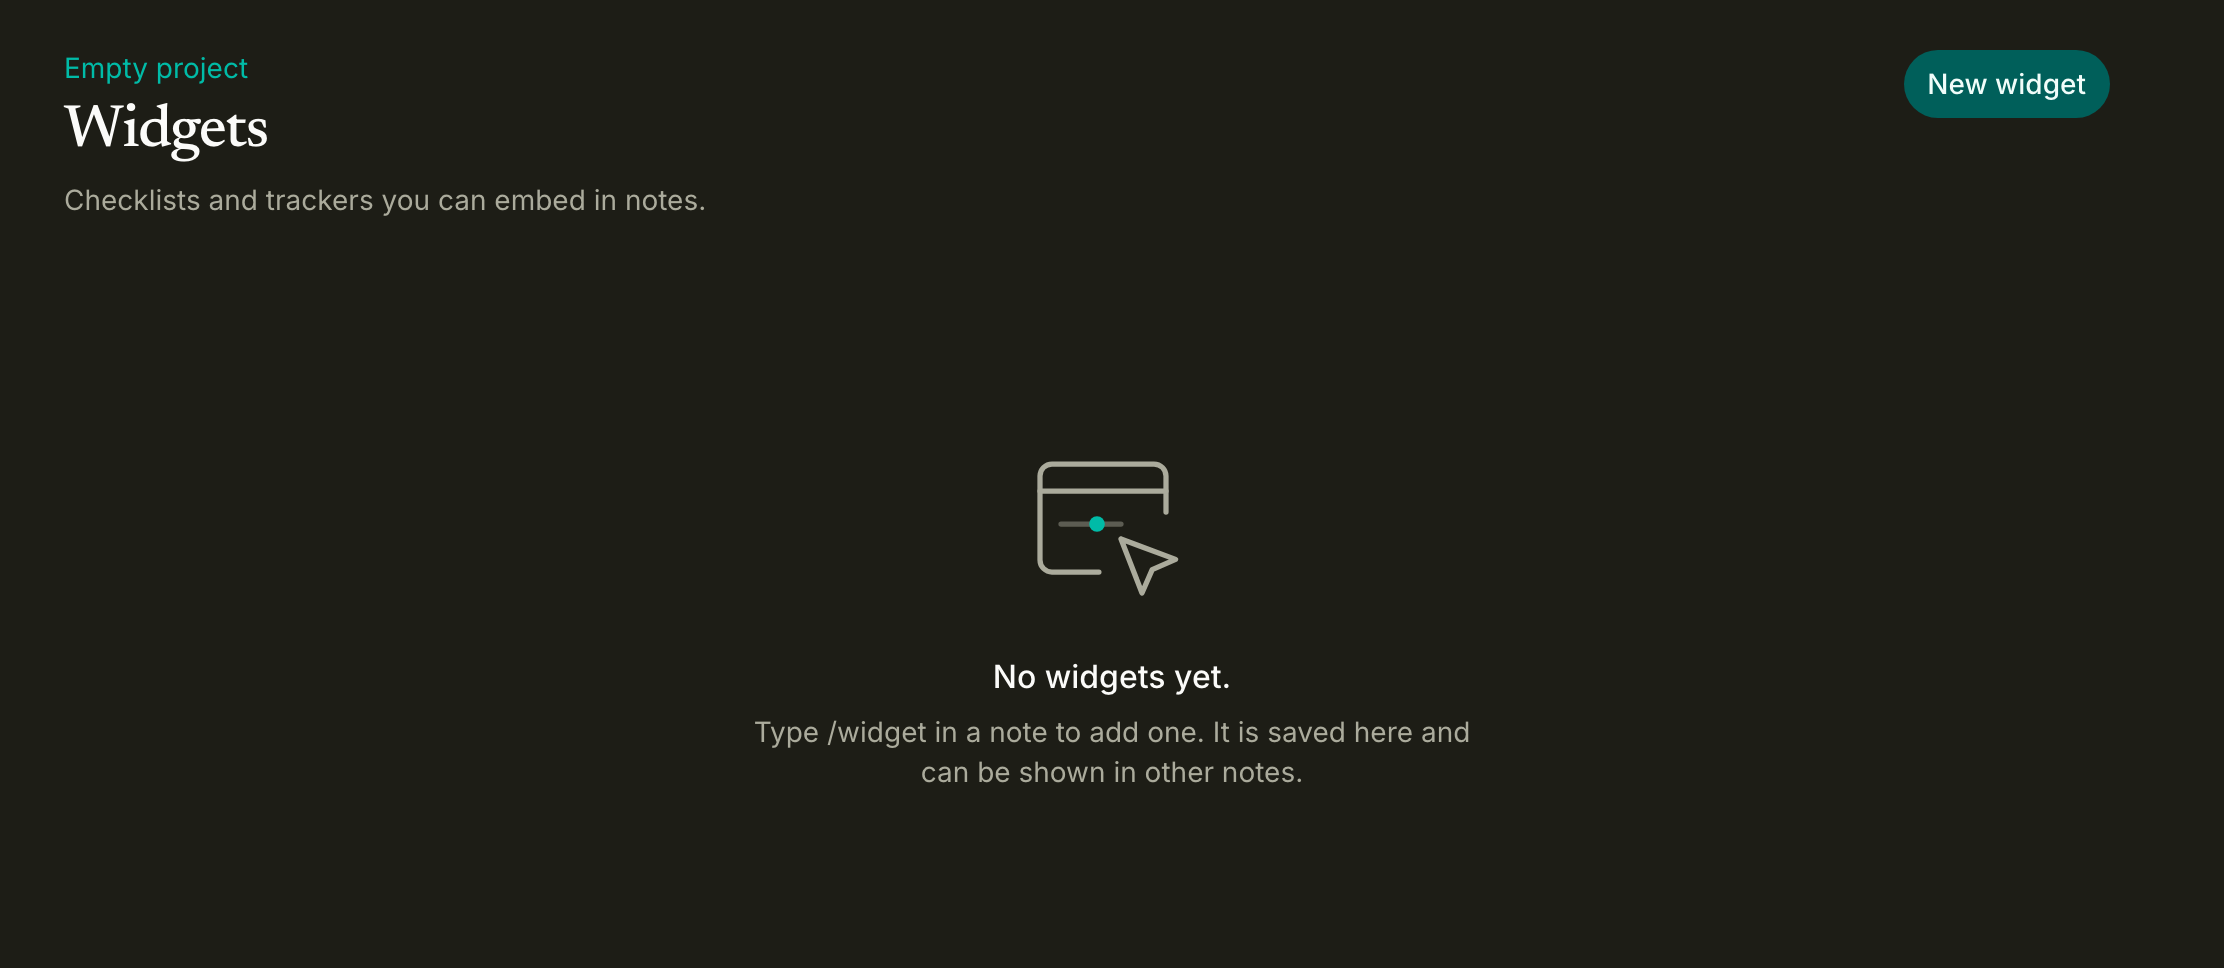
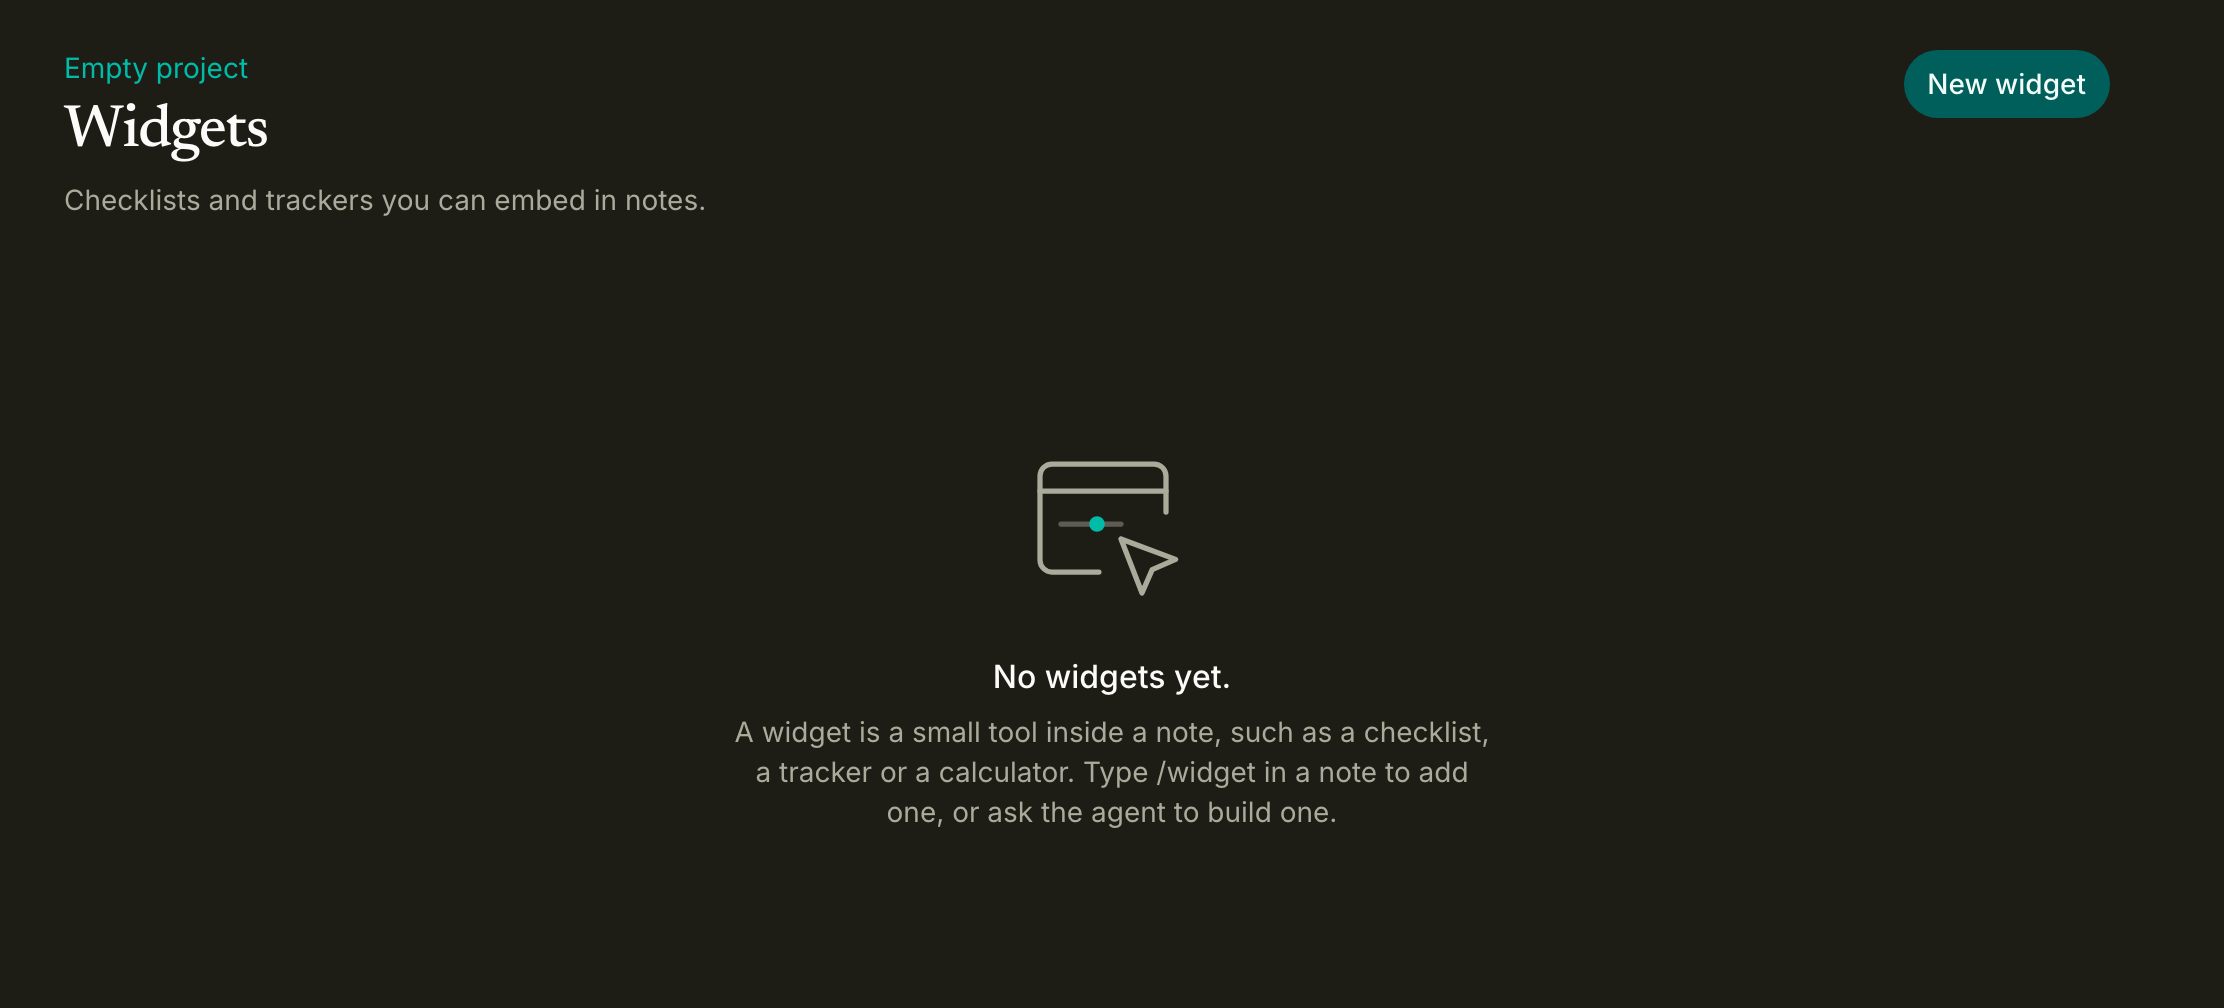
fix(widgets): explain what a widget is in the empty state

diff --git a/src/lib/components/widgets/library/widget-gallery.svelte b/src/lib/components/widgets/library/widget-gallery.svelte
@@ -173,7 +173,7 @@
 			<EmptyState
 				scene={Scene.Widget}
 				title="No widgets yet."
-				hint="Type /widget in a note to add one. It is saved here and can be shown in other notes."
+				hint="A widget is a small tool inside a note, such as a checklist, a tracker or a calculator. Type /widget in a note to add one, or ask the agent to build one."
 				size="large"
 				label="Widgets"
 			/>
